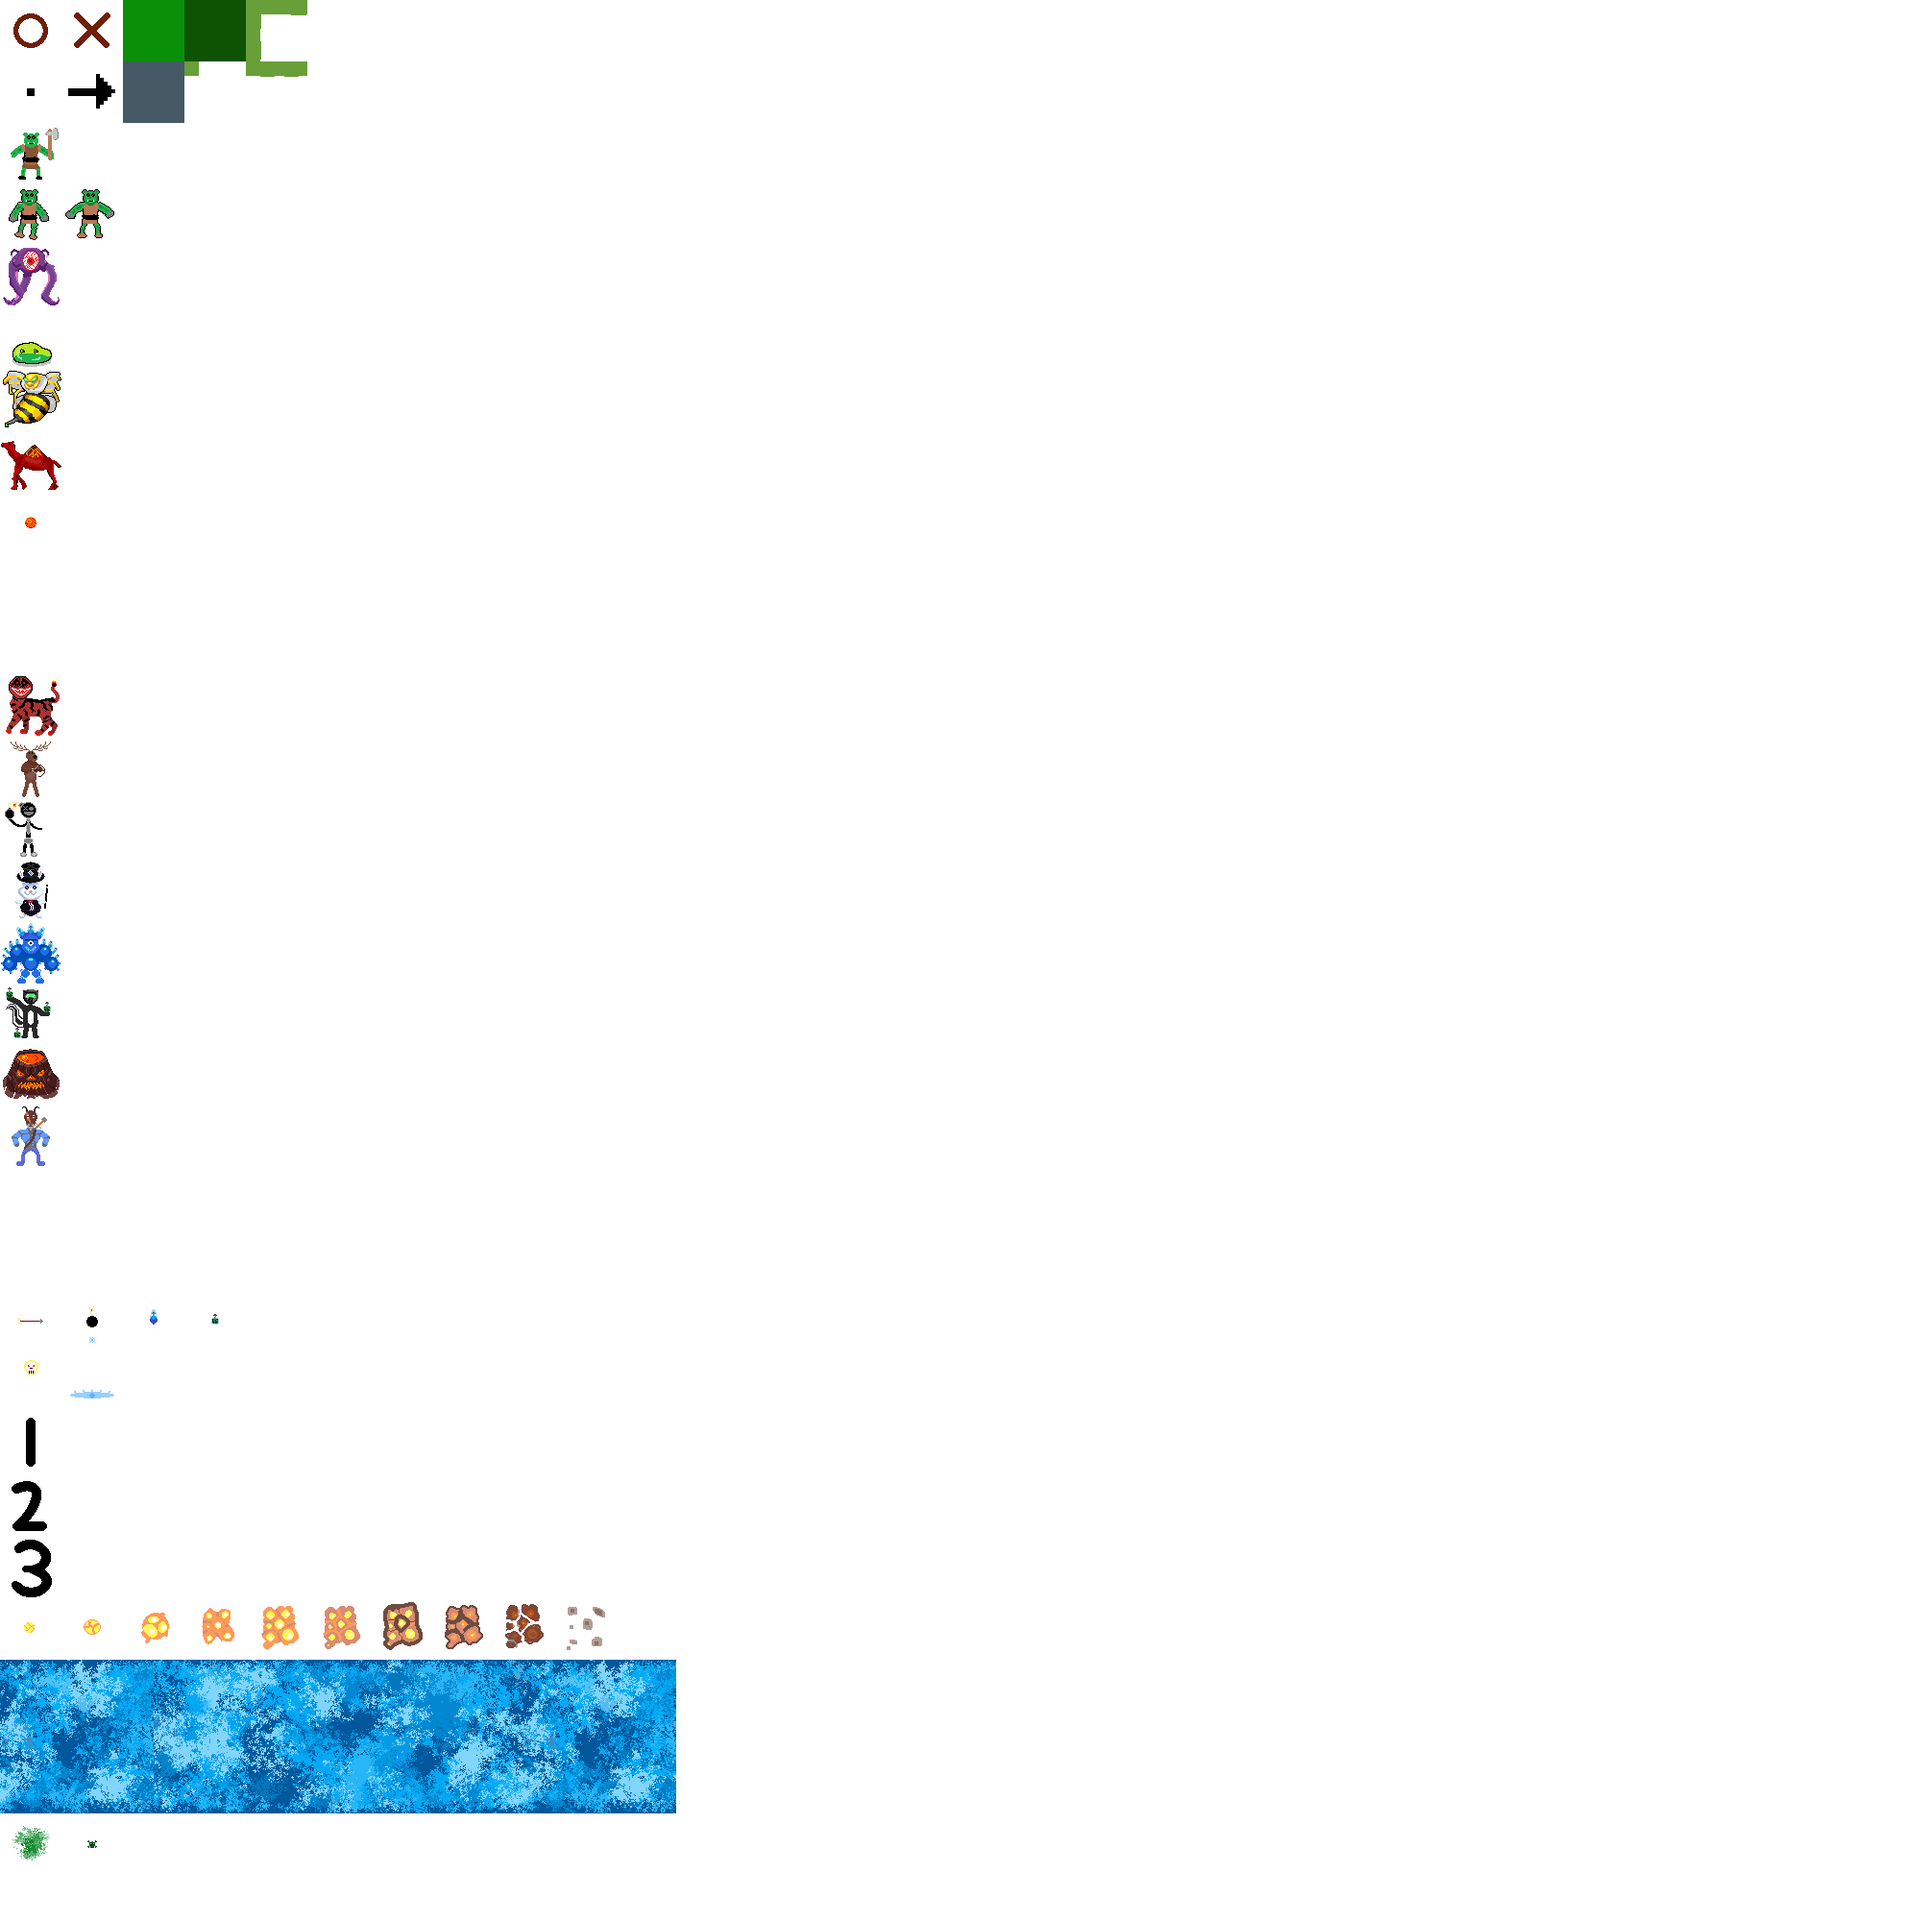
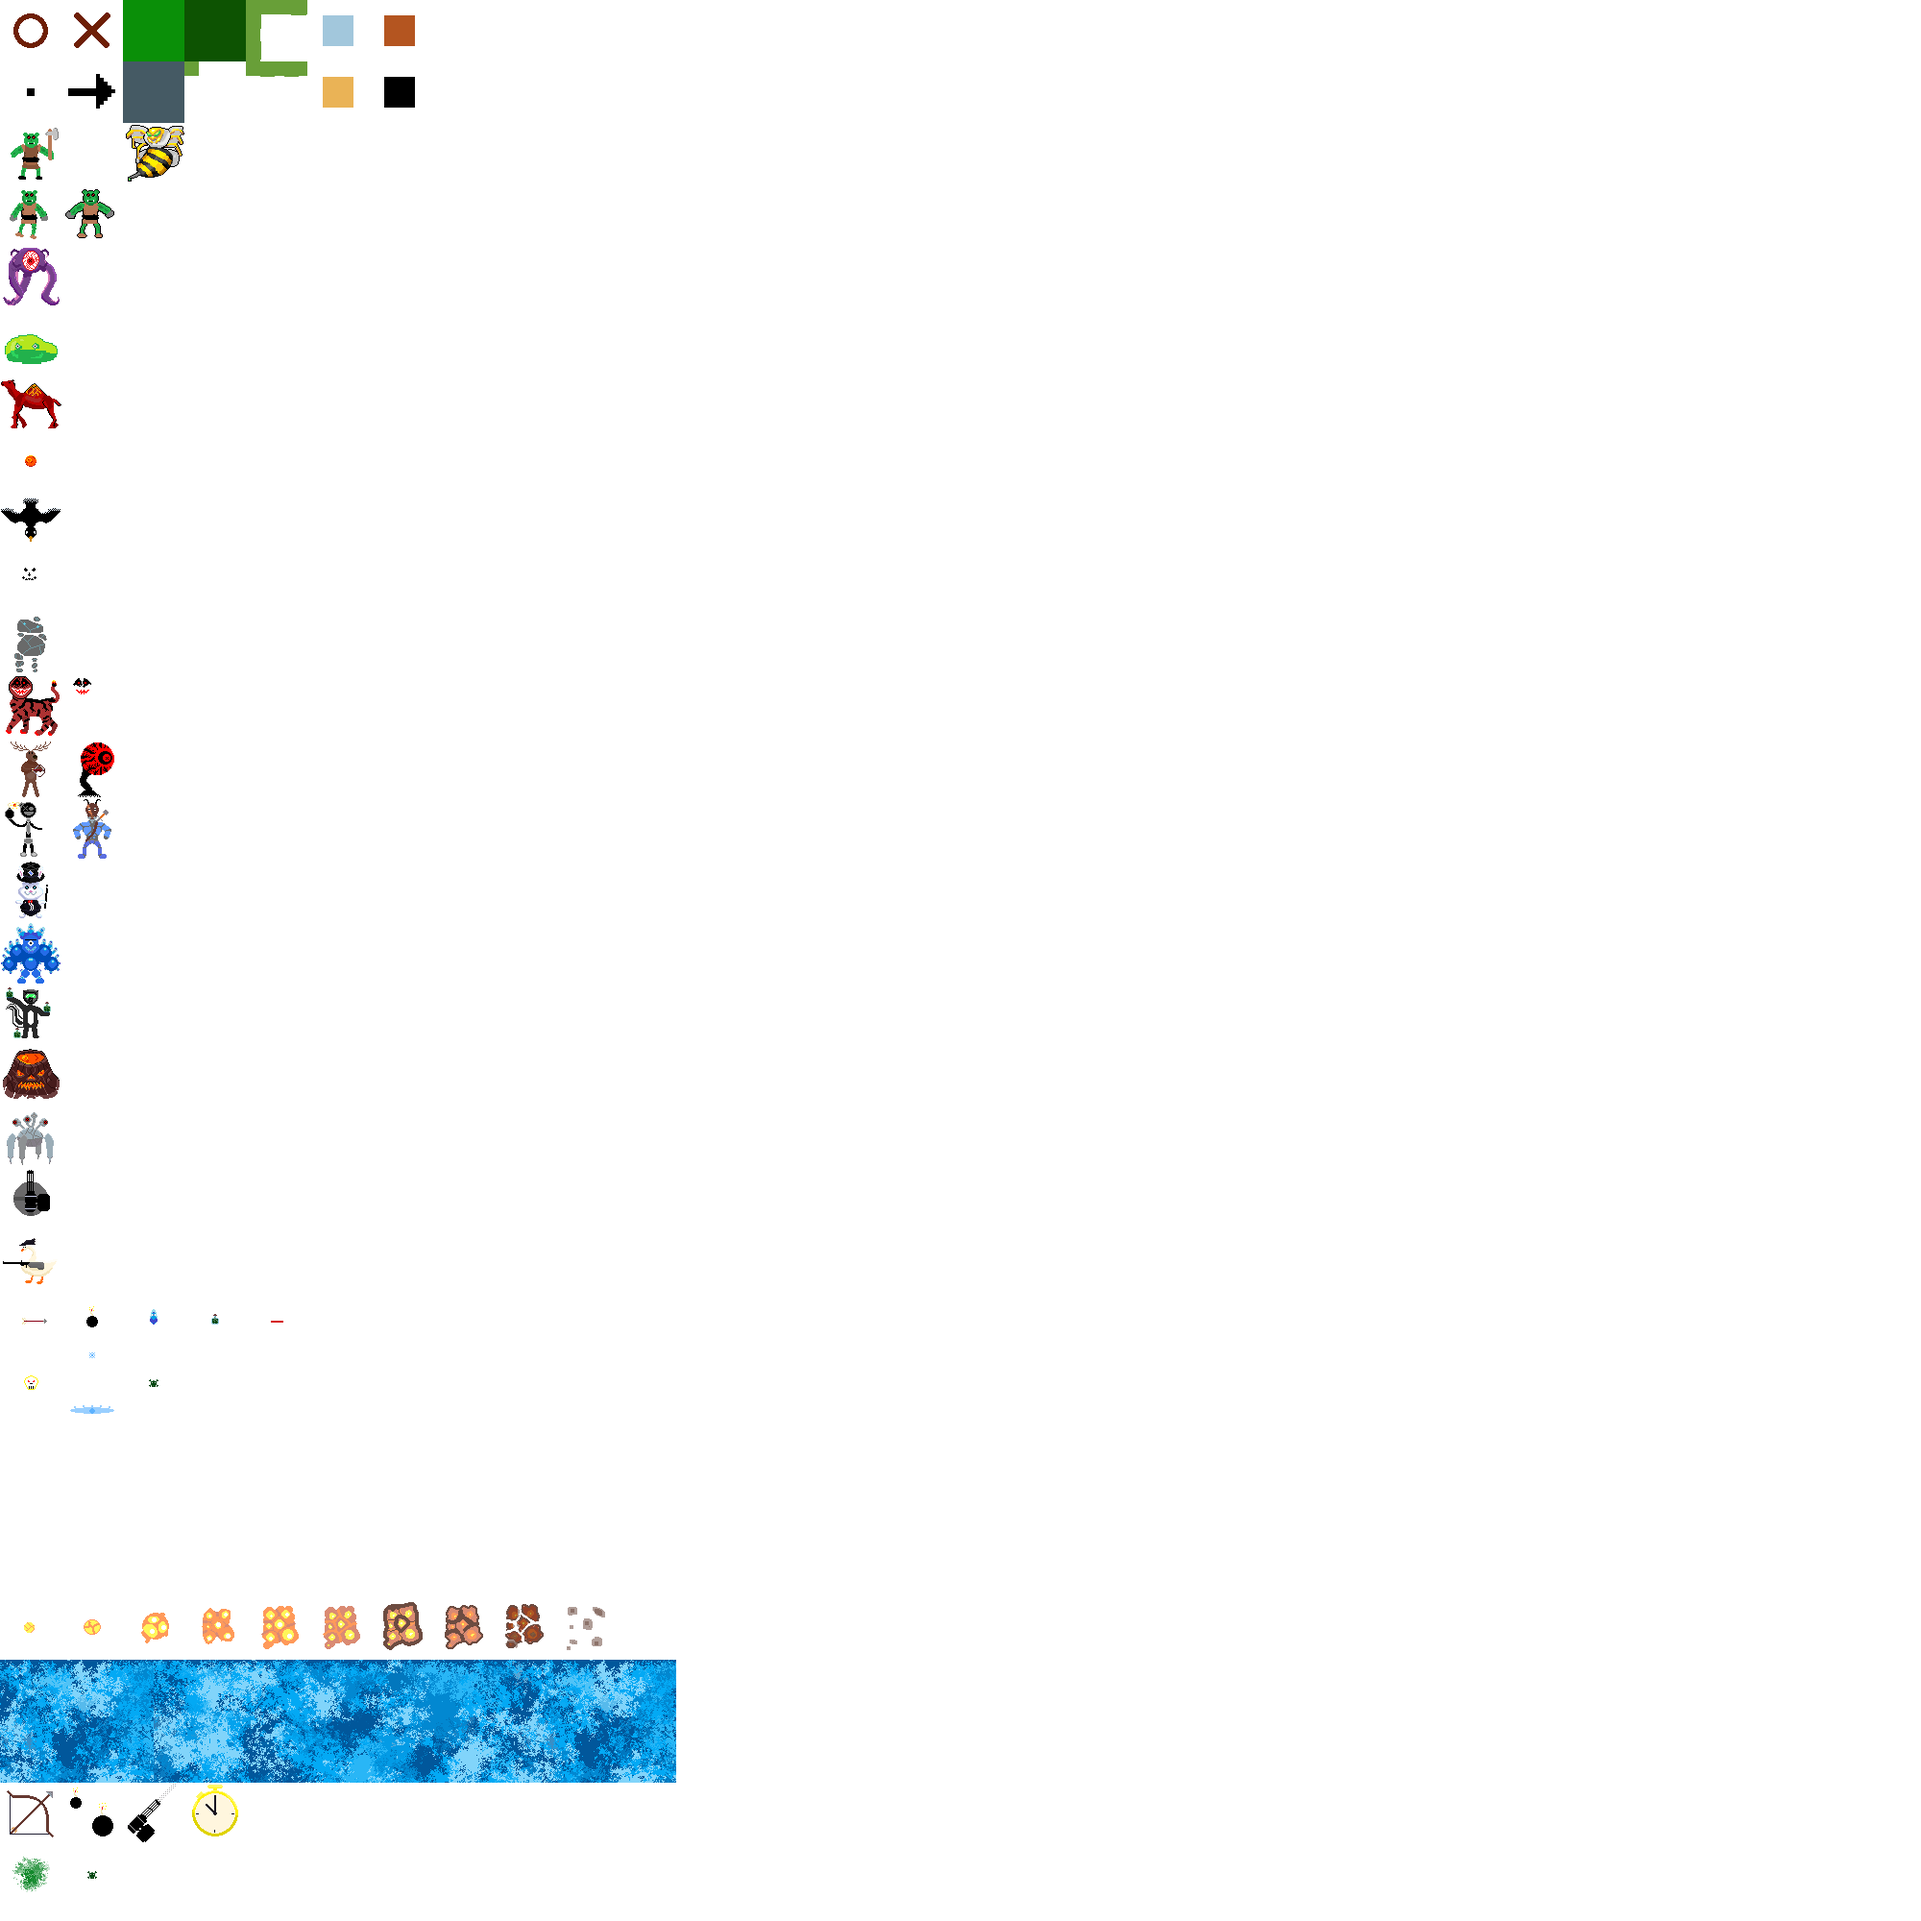
working on belts and items

diff --git a/src/helpz/Constants.java b/src/helpz/Constants.java
@@ -22,14 +22,13 @@ public class Constants {
         public static final int ROAD_DIR = 3;
     }
     public static class BeltType {
-        public static final int WATER_TILE = 0;
-        public static final int GRASS_TILE = 1;
-        public static final int ROAD_TILE = 2;
-        public static final int ROAD_DIR = 3;
-        public static final int WATER_TILE = 0;
-        public static final int GRASS_TILE = 1;
-        public static final int ROAD_TILE = 2;
-        public static final int ROAD_DIR = 3;
+        public static final int BELT_LR = 0;
+        public static final int BELT_TB = 1;
+        public static final int BELT_CORNER_LT = 2;
+        public static final int BELT_CORNER_TR = 3;
+        public static final int BELT_CORNER_RB = 4;
+        public static final int BELT_CORNER_BL = 5;
+
     }
     public static class PortalType {
         public static final int IN = 0;

diff --git a/src/objects/Item.java b/src/objects/Item.java
@@ -13,6 +13,13 @@ public class Item {
         this.x=x;
         this.y=y;
         this.itemType=itemType;
+        hitbox = new Rectangle((int) x, (int) y, 20, 20);
+    }
+
+    public Item(int itemType){
+        this.x=x;
+        this.y=y;
+        this.itemType=itemType;
     }
 
     public void moveItem(float speed,int direction ){
@@ -32,5 +39,12 @@ public class Item {
         }
     }
 
+    public int getItemType(){
+        return itemType;
+    }
 
+
+    public Rectangle getHitbox() {
+        return hitbox;
+    }
 }

diff --git a/src/scenes/GameScene.java b/src/scenes/GameScene.java
@@ -6,9 +6,9 @@ import java.awt.image.BufferedImage;
 
 public class GameScene {
     protected Game game;
-    protected int animationIndex,animationIndexLimit=704;
+    protected int animationIndex,animationIndexLimit=4;
     protected int tick;
-    protected int ANIMATION_SPEED=2;
+    protected int ANIMATION_SPEED=5;
 
     public GameScene(Game game){
         this.game = game;

diff --git a/src/scenes/Playing.java b/src/scenes/Playing.java
@@ -51,6 +51,13 @@ public class Playing extends GameScene implements SceneMethods {
     @Override
     public void render(Graphics g) {
         drawLevel(g);
+        drawResorcys(g);
+        drawElements(g);
+    }
+
+    private void drawResorcys(Graphics g) {
+    }
+    private void drawElements(Graphics g) {
     }
 
     private void getLevel() {
